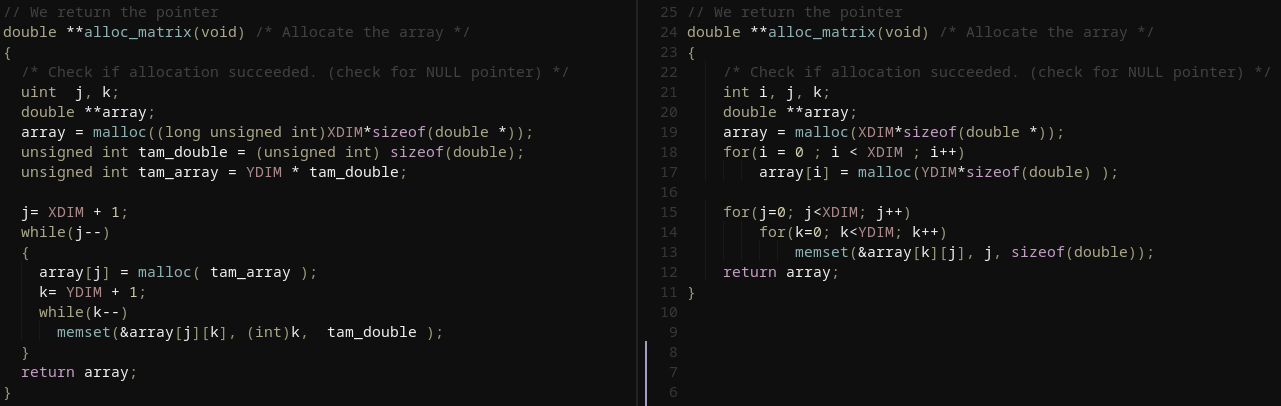
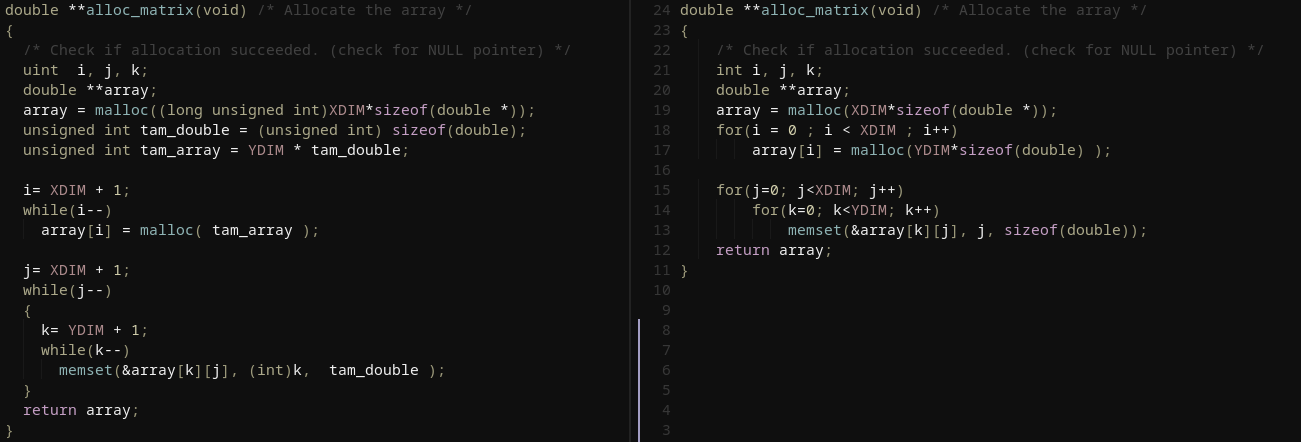
Cambio 3: Cambio en la funcion alloc matrix

diff --git a/src/lab3.c b/src/lab3.c
@@ -6,8 +6,8 @@
 #include <time.h>
 
 
-int const XDIM = 10000;
-int const YDIM = 10000;
+uint const XDIM = 10000;
+uint const YDIM = 10000;
 
 FILE *computo, *resultados;
 
@@ -15,23 +15,27 @@ FILE *computo, *resultados;
 double **alloc_matrix(void) /* Allocate the array */
 {
   /* Check if allocation succeeded. (check for NULL pointer) */
-  int i, j, k; 
+  uint  i, j, k; 
   double **array;
   array = malloc((long unsigned int)XDIM*sizeof(double *));
-  long unsigned int tam_double = sizeof(double),
-       tam_array = (unsigned) YDIM * tam_double;
+  unsigned int tam_double = (unsigned int) sizeof(double);
+  unsigned int tam_array = YDIM * tam_double;
 
-  for(i = 0 ; i < XDIM ; i++)
-    array[i] = malloc(tam_array );
+  i= XDIM + 1;
+  while(i--)
+    array[i] = malloc( tam_array );
 
-  for(j=0; j<XDIM; j++)
-    for(k=0; k<YDIM; k++)
-      memset(&array[k][j], j, tam_double);
-
+  j= XDIM + 1;
+  while(j--)
+  {
+    k= YDIM + 1;
+    while(k--)
+      memset(&array[k][j], (int)k,  tam_double );
+  }
   return array;
 }
 void fill(double** arr) {
-  int i, j;
+  uint i, j;
   time_t t1; 
   srand ( (unsigned) time (&t1));
   for(i = 0 ; i < XDIM ; i++)
@@ -42,7 +46,7 @@ void fill(double** arr) {
 void compute(double** arr, int kern[3][3]){
   double tmp_sum[9];
   double dato, accum;
-  int i, j, k, l;
+  uint i, j, k, l;
   for(i = 0 ; i < XDIM ; i++)
     for(j = 0 ; j < YDIM ; j++){
       fprintf(computo,"processing: %d - %d \n", i, j);
@@ -68,7 +72,7 @@ void compute(double** arr, int kern[3][3]){
 
 
 void print(double** arr) {
-  int i, j;
+  uint i, j;
   for(i = 0 ; i < XDIM ; i++)
     for(j = 0 ; j < YDIM ; j++)
       fprintf(resultados,"array[%d][%d] = %f\n", i, j, arr[i][j]);

diff --git a/INFORME.md b/INFORME.md
@@ -58,7 +58,21 @@ Los errores de conversion se castearon, los sin uso estan comentados y las llave
 
 El tiempo acumulado fue de 16.01 s. Es un cambio muy pequeño respecto a la prueba anterior, pero el resto de pruebas arrojaron resultados inferiores en todas las pruebas, por lo tanto hubo una mejoria de algun tipo.
 ___
+### Tercer Cambio
+> La funcion *alloc_matrix* tiene 1 loop donde alloca memoria y otro donde coloca un valor en las columnas del mismo. Se intento reducir la cantidad de loops, pero era necesario cambiar la forma de asignacion, la cual en **Cambios descartados** se detalla en profundidad.
+Los cambios hechos fueron, cambiar los valores a *unsigned int* para que todos trabajen sin signo, y cambiar los for a while decrecientes por lo que se comenta en [LOOP INVERSION](http://icps.u-strasbg.fr/~bastoul/local_copies/lee.html):
+![cambio 3](./doc_informe/Cambio_3.png)
+
+ %     | cumulative | self    |       | self   | total           
+ ---   | ---        | ---     | ---   | ---    | ---
+ time  | seconds    | seconds | calls | s/call | s/call  name    
+ 88.51 | 13.63      | 13.63   | 1     | 13.63  | 13.63  compute
+ 8.12  | 14.88      | 1.25    | 1     | 1.25   | 1.25  print
+ 1.69  | 15.14      | 0.26    | 1     | 0.26   | 0.26  fill
+ 1.30  | 15.34      | 0.20    | 1     | 0.20   | 0.20  alloc_matrix
+ 0.39  | 15.40      | 0.06    |       |        |       _init
+
+Es realmente muy dificil considerar si hubo una mejoria o no, los numeros indican que si pero otras ejecuciones podrian reflejar que no hubo tanto cambio, de toda formas se queda ya que parece aportar un poco a la ejecucion.
+___
 ### Cambios descartados
-* En la funcion *alloc_matrix* se intento cambiar los for por while retrocediendo, empeoro los resultados de la funcion
-* En la misma que anterior se intento separar el malloc en 1 solo for, el mismo tambien empeoro los tiempos
-* Cambiar los *int* por *unsigned int* empeoro en pequeña escala los tiempos a nivel general
+* En la funcion *alloc_matrix* se intento separar el malloc en 1 solo for, el mismo tambien empeoro los tiempos, por alguna razon cuando el acceso  la direccion de memoria se hace incrementando el valor de la izquierda, hay un acceso practicamente 2 veces mas rapido. Esto resulta ilustrador, y es de lo que habla en [COLUMN-MAJOR ACCESSING](http://icps.u-strasbg.fr/~bastoul/local_copies/lee.html), sinceramente la idea intuitiva hubiera sido al reves.
